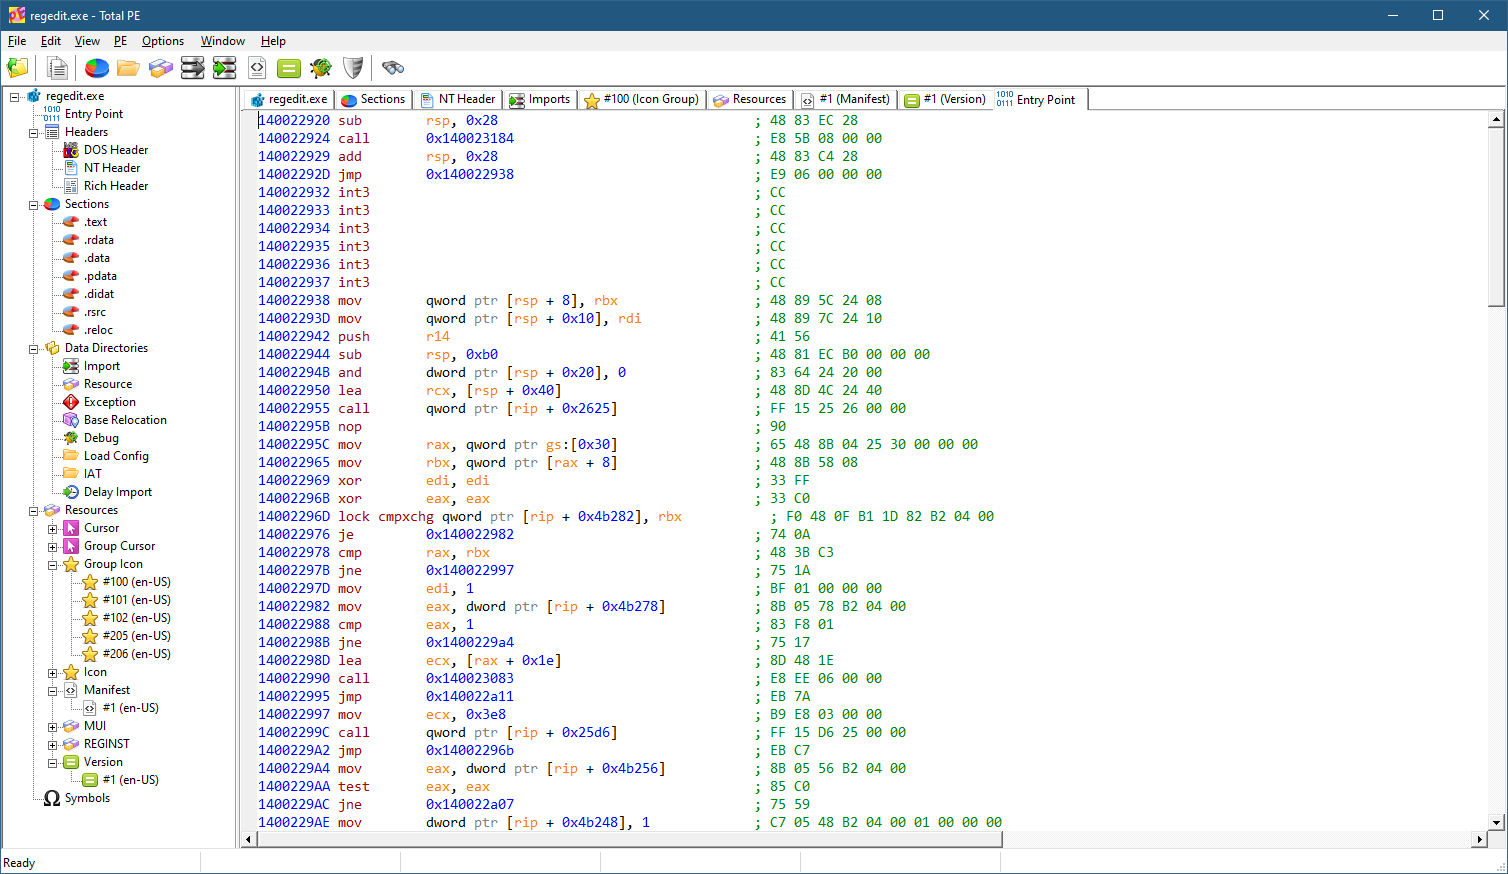
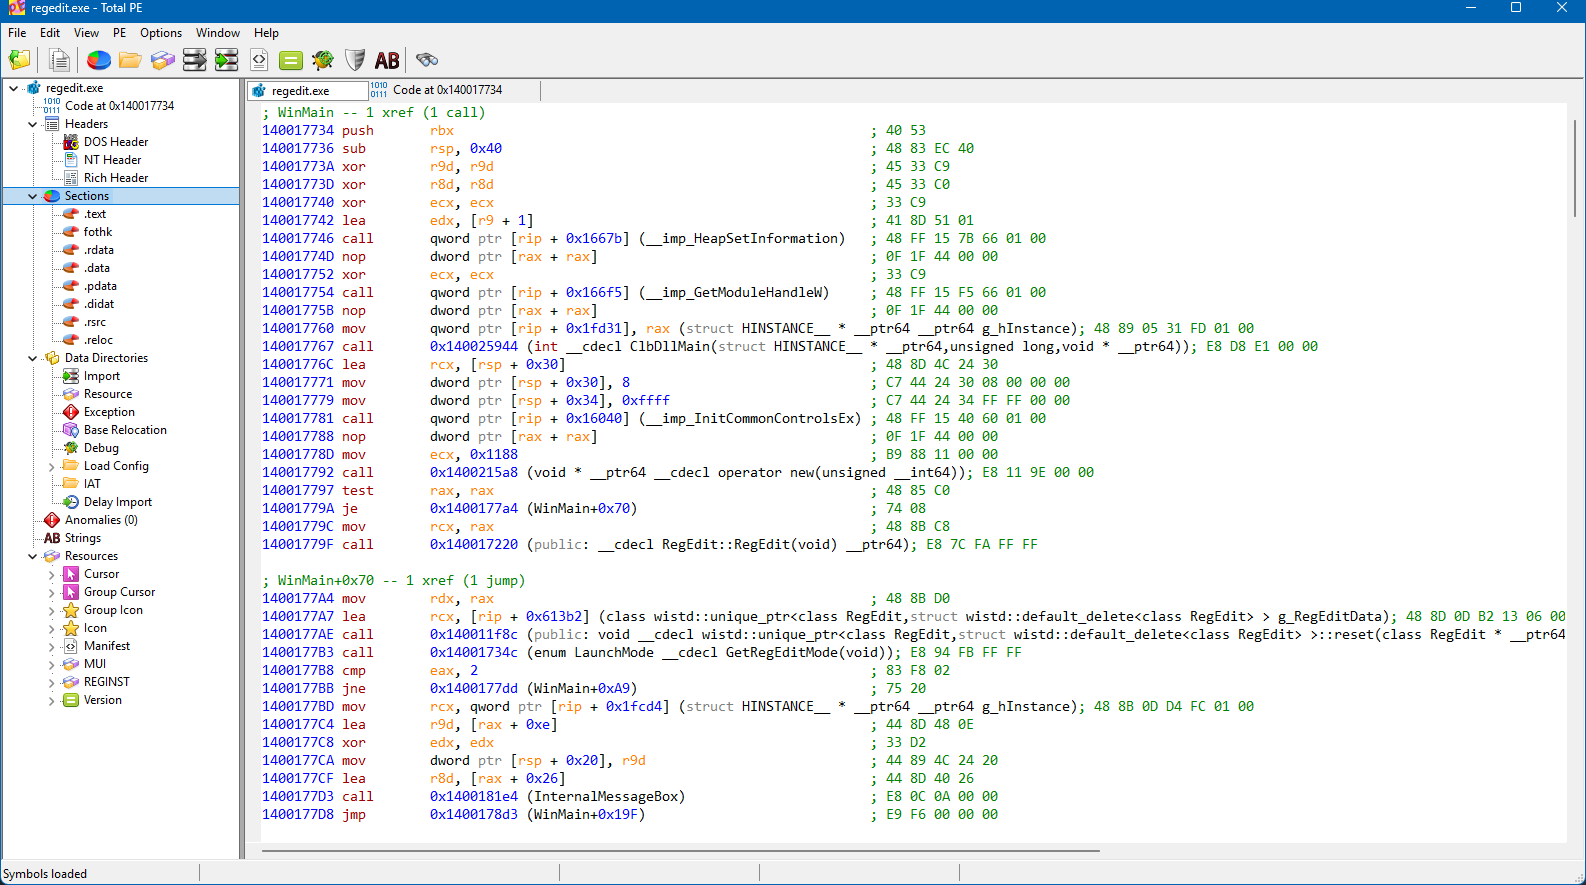
screenshots

Changed region(s): [[0.0, 0.0, 1.0, 1.0], [0.0, 0.9577, 0.0623, 1.0], [0.1247, 0.9886, 0.1558, 1.0]]

diff --git a/README.md b/README.md
@@ -6,10 +6,14 @@ An improved version over **Total PE**, for Windows executables (EXE, DLL, SYS...
 
 As usual, it's a work in progress.
 
-![](https://github.com/zodiacon/TotalPE2/blob/master/totalpe2-1.png)
-![](https://github.com/zodiacon/TotalPE2/blob/master/totalpe2-2.png)
-![](https://github.com/zodiacon/TotalPE2/blob/master/totalpe2-3.png)
-![](https://github.com/zodiacon/TotalPE2/blob/master/totalpe2-4.png)
+![The summary of a PE file: hashes, checksum validation, import hash](https://github.com/zodiacon/TotalPE2/blob/master/totalpe2-1.png)
+![The strings of the file, filtered](https://github.com/zodiacon/TotalPE2/blob/master/totalpe2-2.png)
+![Exceptions, with the unwind information of a function](https://github.com/zodiacon/TotalPE2/blob/master/totalpe2-3.png)
+![Disassembly with symbols and cross-references](https://github.com/zodiacon/TotalPE2/blob/master/totalpe2-4.png)
+![Comparing two PE files](https://github.com/zodiacon/TotalPE2/blob/master/totalpe2-5.png)
+![Search All: imports, exports, strings, resources, symbols and sections](https://github.com/zodiacon/TotalPE2/blob/master/totalpe2-6.png)
+![An ELF file](https://github.com/zodiacon/TotalPE2/blob/master/totalpe2-7.png)
+![A COFF object file with its CodeView debug information](https://github.com/zodiacon/TotalPE2/blob/master/totalpe2-8.png)
 
 ## What it opens
 
